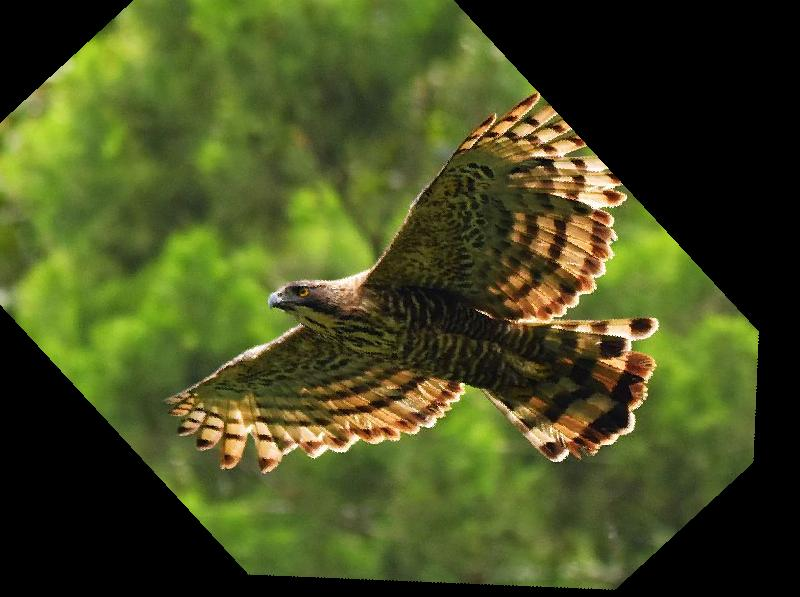
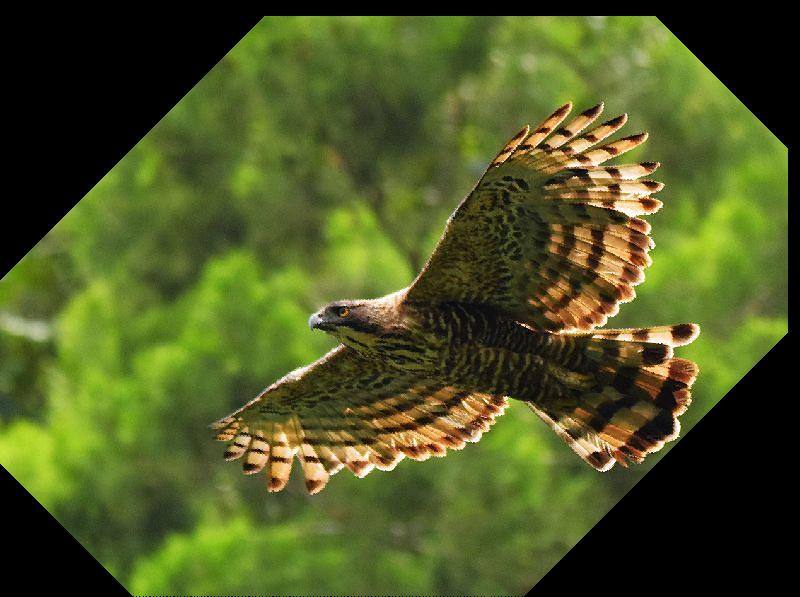
feat: transform image 2d function

diff --git a/image_regist/tools.py b/image_regist/tools.py
@@ -51,18 +51,21 @@ def mutual_information_2d(x, y, sigma=1, normalized=False):
 
     return mi
 
-def loss(data1, data2, params, param_vals):
+def transform_image_2d(data, params, param_vals):
     if(Transform.ROTATION in params):
-        data2 = data2.rotate(param_vals[params.index(Transform.ROTATION)])
+        data = data.rotate(param_vals[params.index(Transform.ROTATION)])
     if(Transform.TRANSLATION_X in params):
-        data2 = data2.transform(data2.size,
+        data = data.transform(data.size,
                     Image.Transform.AFFINE, 
                     (1, 0, param_vals[params.index(Transform.TRANSLATION_X)], 0, 1, 0))
     if(Transform.TRANSLATION_Y in params):
-        data2 = data2.transform(data2.size, 
+        data = data.transform(data.size, 
                     Image.Transform.AFFINE,
                     (1, 0, 0, 0, 1, param_vals[params.index(Transform.TRANSLATION_Y)]))
+    return data
 
+def loss(data1, data2, params, param_vals):
+    data2 = transform_image_2d(data2, params, param_vals)
     mi = mutual_information_2d(np.asarray(data1).ravel(), np.asarray(data2).ravel())
     return -mi
     
@@ -105,10 +108,12 @@ def pso(data1, data2, params, iter=100, random_particles=True, patience=20):
             vel_val[params.index(Transform.TRANSLATION_Y)] = random.random()*random.random()
         velocities.append(vel_val)
     
+    pbest_obj = [loss(data1, data2, params, x) for x in particles]
+
     particles = np.array(particles)
     velocities = np.array(velocities)
+
     pbest = np.array(particles)
-    pbest_obj = [loss(data1, data2, params, x) for x in particles]
     gbest_obj = min(pbest_obj)
     gbest = pbest[pbest_obj.index(gbest_obj)]
     pbest_obj = np.array(pbest_obj)
@@ -133,7 +138,7 @@ def pso(data1, data2, params, iter=100, random_particles=True, patience=20):
         gbest_obj = min(pbest_obj_up)
         gbest = pbest[pbest_obj_up.index(gbest_obj)]
 
-        print("iter:", iteration, "best param:", gbest)
+        print("Iter:", iteration, "best param", [x.name for x in params], ":", gbest)
         count_patience += 1
     
     # print(gbest)

diff --git a/main.py b/main.py
@@ -1,22 +1,20 @@
-from image_regist.tools import findTransformation, Transform
 from PIL import Image
-img1 = Image.open("resource\Elang_Jawa.jpg")
-img2 = Image.open("resource\Elang_Jawa.jpg")
+from image_regist.tools import findTransformation, Transform, transform_image_2d
 
+reference_image = Image.open("resource\Elang_Jawa.jpg")
+target_image = Image.open("resource\Elang_Jawa.jpg")
 
-trans_x = 20
-trans_y = 40
-img2 = img2.rotate(45)
-img2 = img2.transform(img2.size, Image.Transform.AFFINE,
-                      (1, 0, trans_x, 0, 1, trans_y))
+target_image = transform_image_2d(target_image, [Transform.ROTATION, 
+                                Transform.TRANSLATION_X, Transform.TRANSLATION_Y], [-45, -20, 3])
 
-img3 = img2.transform(img2.size, Image.Transform.AFFINE, (1, 0, 19.68641438, 0, 1, -57.44388179))
-img3 = img3.rotate(-47.36936165)
+findTransformation(reference_image, target_image, [Transform.ROTATION, 
+                                Transform.TRANSLATION_X, 
+                                Transform.TRANSLATION_Y])
 
-img1.save("test1.jpg")
-img2.save("test2.jpg")
-img3.save("test3.jpg")
+# tranformed_image = transform_image_2d(target_image, [Transform.ROTATION, 
+#                                 Transform.TRANSLATION_X, Transform.TRANSLATION_Y], 
+#                                 [ 44.98814041, 12.13631626, -15.76185011])
 
-import numpy as np
-
-# findTransformation(img1, img2, [Transform.TRANSLATION_X, Transform.ROTATION, Transform.TRANSLATION_Y])
+# reference_image.save("01_reference_image.jpg")
+# target_image.save("02_target_image.jpg")
+# tranformed_image.save("03_tranformed_image.jpg")
